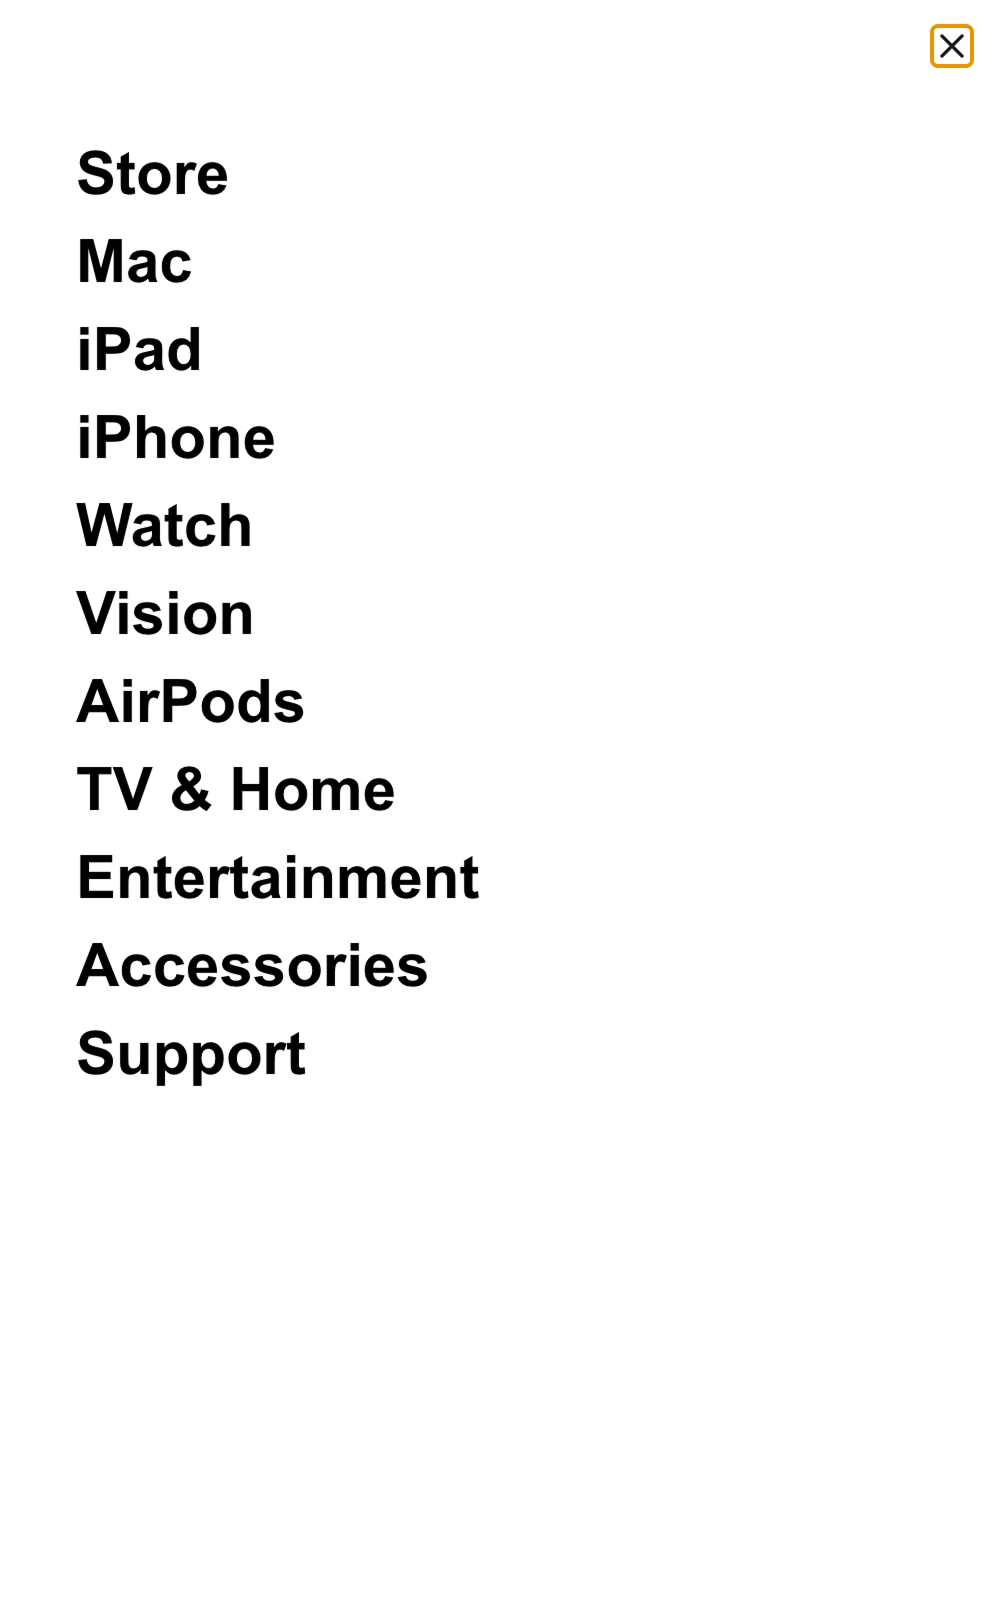
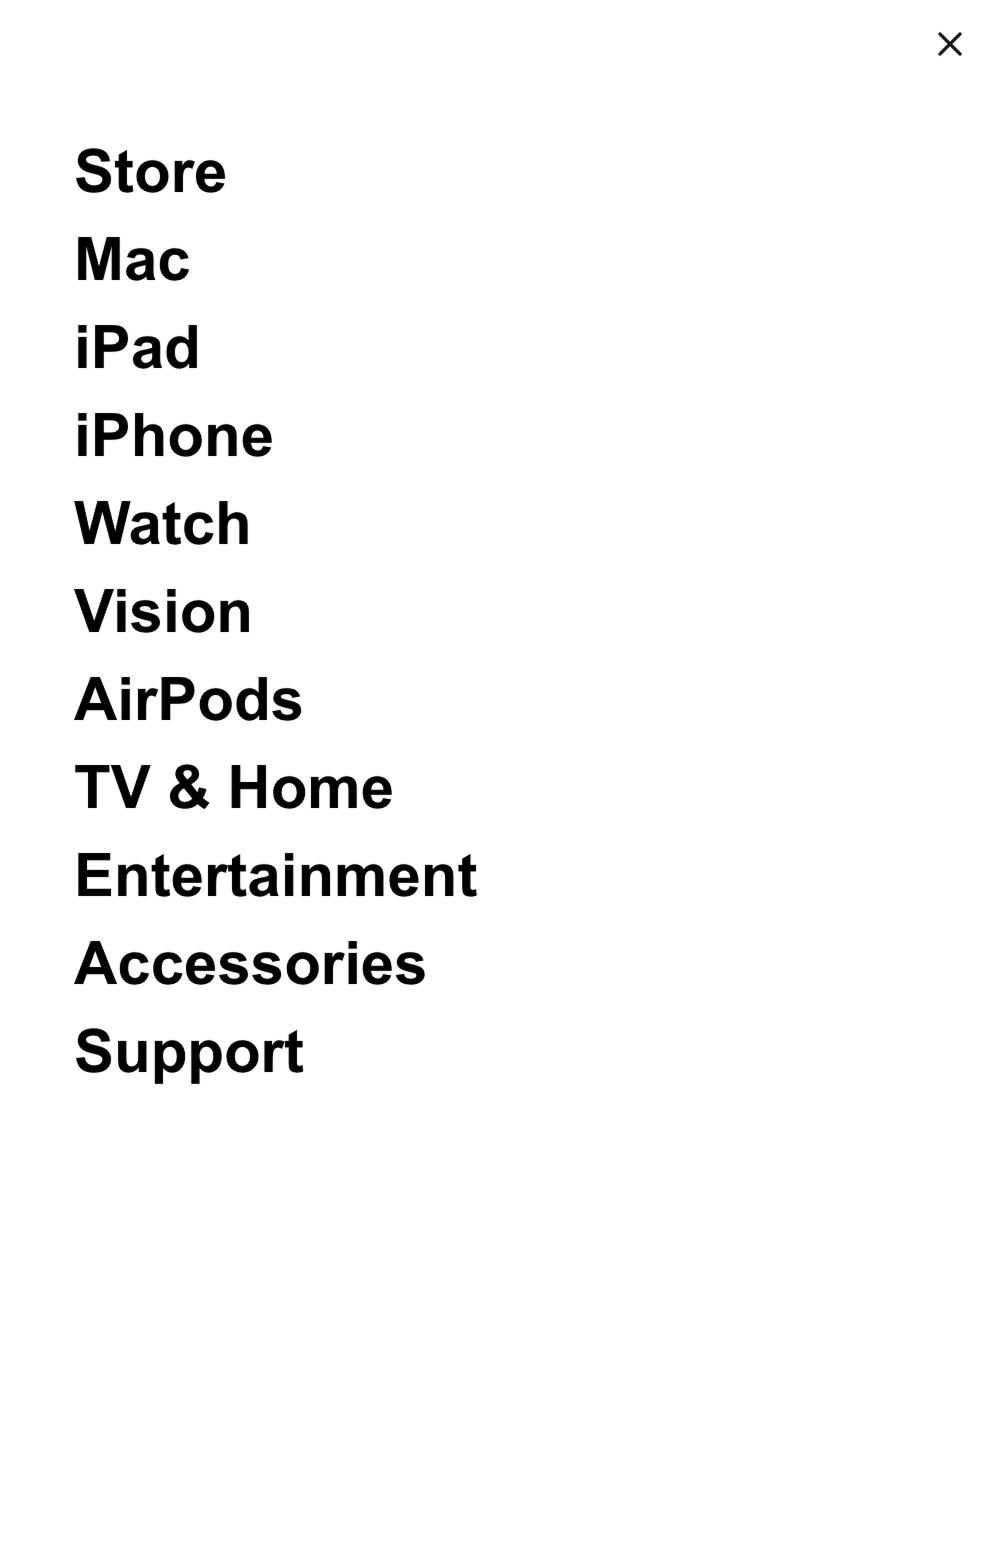
commit

Changed region(s): [[0.0619, 0.1536, 0.495, 0.7068], [0.0619, 0.0922, 0.2475, 0.1229], [0.9281, 0.0, 0.99, 0.0615]]

diff --git a/README.md b/README.md
@@ -65,7 +65,7 @@ This project is being developed as a portfolio project to practice and demonstra
 
 <br/>
 
-![Screenshot](./public/screenshot/2.png)
+![Screenshot](./public/screenShot/2.png)
 
 <br/>
 
